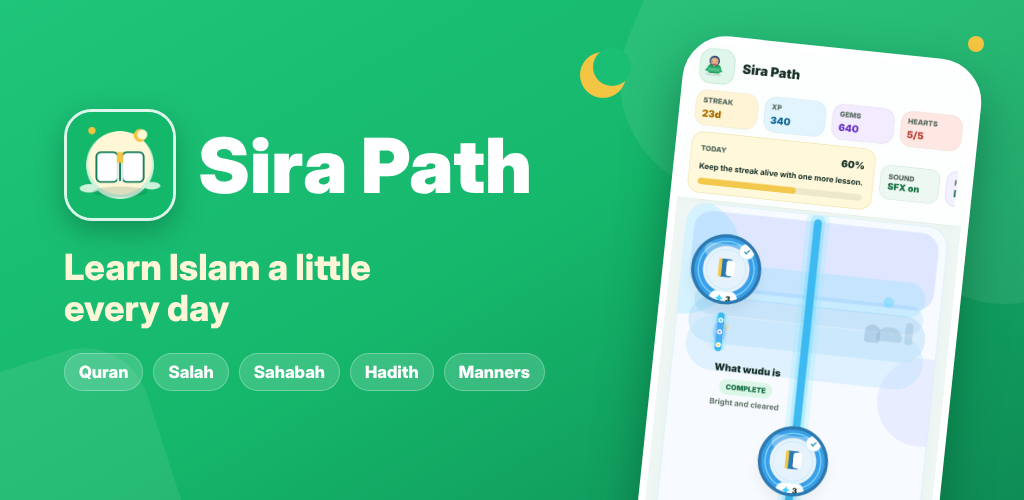
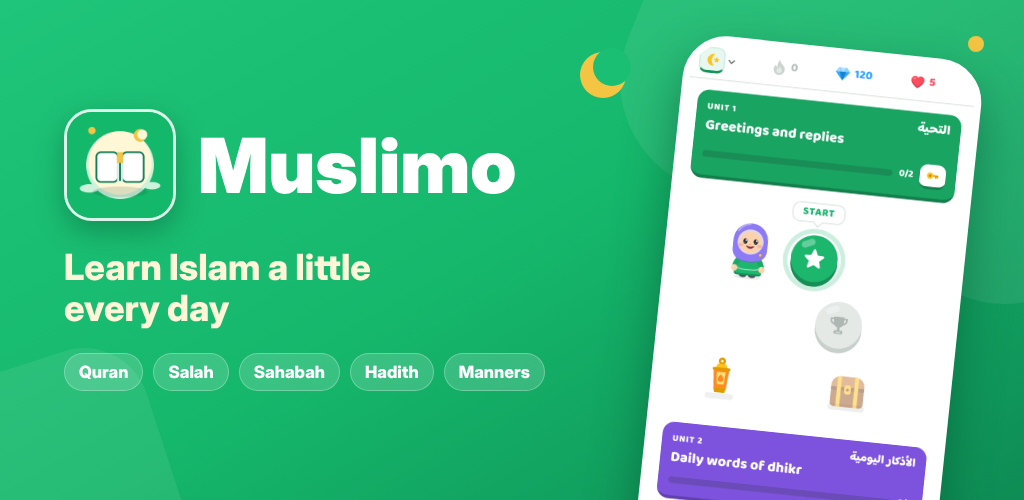
Rename the app from Sira Path to Muslimo
Display name, slug, URL scheme and bundle ids (com.islamiclearning.muslimo),
in-app text, reminders, store listings, public site pages, docs and the
Render service names. The Play feature graphic is redone with the new name
on the redesigned home screen. Storage keys, SIRA_ env vars and the SQLite
file name stay so existing data and deploy settings keep working.

Claude-Session: https://claude.ai/code/session_012MhoryfZ5DE3enWPnHp2ab

diff --git a/site/privacy.html b/site/privacy.html
@@ -3,15 +3,15 @@
 <head>
   <meta charset="utf-8">
   <meta name="viewport" content="width=device-width, initial-scale=1">
-  <title>Sira Path Privacy Policy</title>
-  <meta name="description" content="How the Sira Path app collects, uses and protects your information.">
+  <title>Muslimo Privacy Policy</title>
+  <meta name="description" content="How the Muslimo app collects, uses and protects your information.">
   <link rel="icon" href="favicon.png">
   <link rel="stylesheet" href="styles.css">
 </head>
 <body>
   <header>
     <div class="bar">
-      <a class="brand" href="./"><img src="icon.png" alt="">Sira Path</a>
+      <a class="brand" href="./"><img src="icon.png" alt="">Muslimo</a>
       <nav>
         <a href="./">Support</a>
         <a href="privacy.html" aria-current="page">Privacy</a>
@@ -24,7 +24,7 @@
     <h1>Privacy Policy</h1>
     <p class="updated">Last updated: October 18, 2026</p>
 
-    <p>Sira Path is an Islamic learning app for Android and iOS. It is made by {{DEVELOPER_NAME}} ("we", "us"). This policy explains what information the app collects, why, who it is shared with, and the choices you have. If you have a question, email <a href="mailto:{{SUPPORT_EMAIL}}">{{SUPPORT_EMAIL}}</a>.</p>
+    <p>Muslimo is an Islamic learning app for Android and iOS. It is made by {{DEVELOPER_NAME}} ("we", "us"). This policy explains what information the app collects, why, who it is shared with, and the choices you have. If you have a question, email <a href="mailto:{{SUPPORT_EMAIL}}">{{SUPPORT_EMAIL}}</a>.</p>
 
     <div class="callout">
       <strong>The short version.</strong> You can learn without an account. If you create one, we store your name, email and learning progress so it is saved across devices. Free learners see ads from Google AdMob, which uses your device's advertising identifier. Purchases go through Apple or Google and RevenueCat; we never see your card details. We do not sell your personal information for money, and you can delete your account at any time.
@@ -43,7 +43,7 @@
         <tr><td>Learning progress</td><td>Lessons completed, XP, streaks, gems, hearts, rewards claimed, mastery scores and your daily goal</td><td>To save your progress and keep the game parts of the app working</td></tr>
         <tr><td>Answers and review</td><td>The answers you choose, whether they were right, how long you took, how confident you said you were, placement results and the questions queued for review</td><td>To pick the right difficulty, find weak areas and schedule review</td></tr>
         <tr><td>Settings</td><td>Reminder choices and sound settings</td><td>To remember how you like the app to work</td></tr>
-        <tr><td>People you follow</td><td>Which Sira Path accounts you follow on the Crew screen. You find someone by their account email, which we use for the lookup and do not store again. People who follow you see your display name, XP and streak</td><td>To show the weekly XP race with family and friends</td></tr>
+        <tr><td>People you follow</td><td>Which Muslimo accounts you follow on the Crew screen. You find someone by their account email, which we use for the lookup and do not store again. People who follow you see your display name, XP and streak</td><td>To show the weekly XP race with family and friends</td></tr>
         <tr><td>Subscription status</td><td>Whether you have premium, which plan, and when it started and ends</td><td>To unlock premium features on every device you sign in on</td></tr>
         <tr><td>Sign-in records</td><td>When you last signed in and a sign-in token that expires after 30 days</td><td>To keep you signed in securely</td></tr>
       </table>
@@ -96,7 +96,7 @@
     <p>Depending on where you live, you may also have the right to access, correct, export or delete your information, to object to or restrict how we use it, and to withdraw consent. To use these rights, email <a href="mailto:{{SUPPORT_EMAIL}}">{{SUPPORT_EMAIL}}</a> from the email address on your account. We reply within 30 days and will not treat you differently for using your rights. If you are in the EEA or UK, you can also complain to your local data protection authority.</p>
 
     <h2>7. Children</h2>
-    <p>Sira Path is made for learners aged 13 and older and for families learning together. It is not directed at children under 13, and we do not knowingly collect personal information from children under 13 without verified parental consent. A child under 13 may use the app without an account, or on a parent's device with the parent's supervision. If you believe a child under 13 has given us personal information, email us and we will delete it.</p>
+    <p>Muslimo is made for learners aged 13 and older and for families learning together. It is not directed at children under 13, and we do not knowingly collect personal information from children under 13 without verified parental consent. A child under 13 may use the app without an account, or on a parent's device with the parent's supervision. If you believe a child under 13 has given us personal information, email us and we will delete it.</p>
 
     <h2>8. Security</h2>
     <p>Information is sent over encrypted connections (HTTPS). Passwords are stored as one-way hashes, and sign-in tokens are stored only as hashes. No system is perfectly secure, so please use a password you do not use anywhere else.</p>
@@ -113,6 +113,6 @@
     <h2>12. Contact</h2>
     <p>{{DEVELOPER_NAME}}<br>Email: <a href="mailto:{{SUPPORT_EMAIL}}">{{SUPPORT_EMAIL}}</a></p>
   </main>
-  <footer>Sira Path · <a href="privacy.html">Privacy</a> · <a href="terms.html">Terms</a></footer>
+  <footer>Muslimo · <a href="privacy.html">Privacy</a> · <a href="terms.html">Terms</a></footer>
 </body>
 </html>

diff --git a/site/terms.html b/site/terms.html
@@ -3,15 +3,15 @@
 <head>
   <meta charset="utf-8">
   <meta name="viewport" content="width=device-width, initial-scale=1">
-  <title>Sira Path Terms of Use</title>
-  <meta name="description" content="The terms that apply when you use the Sira Path app.">
+  <title>Muslimo Terms of Use</title>
+  <meta name="description" content="The terms that apply when you use the Muslimo app.">
   <link rel="icon" href="favicon.png">
   <link rel="stylesheet" href="styles.css">
 </head>
 <body>
   <header>
     <div class="bar">
-      <a class="brand" href="./"><img src="icon.png" alt="">Sira Path</a>
+      <a class="brand" href="./"><img src="icon.png" alt="">Muslimo</a>
       <nav>
         <a href="./">Support</a>
         <a href="privacy.html">Privacy</a>
@@ -24,23 +24,23 @@
     <h1>Terms of Use</h1>
     <p class="updated">Last updated: October 18, 2026</p>
 
-    <p>These terms are an agreement between you and {{DEVELOPER_NAME}} ("we", "us") for your use of the Sira Path app and website (the "app"). By using the app you agree to these terms and to our <a href="privacy.html">Privacy Policy</a>. If you do not agree, please do not use the app.</p>
+    <p>These terms are an agreement between you and {{DEVELOPER_NAME}} ("we", "us") for your use of the Muslimo app and website (the "app"). By using the app you agree to these terms and to our <a href="privacy.html">Privacy Policy</a>. If you do not agree, please do not use the app.</p>
 
-    <h2>1. Who can use Sira Path</h2>
+    <h2>1. Who can use Muslimo</h2>
     <p>You must be at least 13 years old to create an account. If you are under the age of adulthood where you live, a parent or guardian must agree to these terms for you. Children under 13 may use the app only with a parent or guardian's supervision.</p>
 
     <h2>2. About the lessons</h2>
-    <p>Sira Path is an educational tool that teaches Islamic knowledge in short lessons and quizzes, drawing on the Quran, hadith, seerah and the works of scholars. We work to keep lessons accurate and to cite sources, but lessons are simplified for learning and may contain mistakes. The app is not a fatwa service and does not replace a qualified scholar. For religious rulings that affect you, please ask a trusted, qualified scholar. If you find a mistake, email us and we will review it.</p>
+    <p>Muslimo is an educational tool that teaches Islamic knowledge in short lessons and quizzes, drawing on the Quran, hadith, seerah and the works of scholars. We work to keep lessons accurate and to cite sources, but lessons are simplified for learning and may contain mistakes. The app is not a fatwa service and does not replace a qualified scholar. For religious rulings that affect you, please ask a trusted, qualified scholar. If you find a mistake, email us and we will review it.</p>
 
     <h2>3. Your account</h2>
     <p>You can use most lessons without an account. If you create one, give accurate information, keep your password private, and tell us if you think someone else has used your account. You are responsible for activity on your account. You can delete your account at any time, as explained on our <a href="delete-account.html">account deletion page</a>.</p>
 
     <h2>4. Premium subscriptions</h2>
     <ul>
-      <li>Sira Path Premium is an optional auto-renewing subscription, billed monthly or yearly, that removes ads and unlocks premium features such as unlimited hearts, premium lesson branches and mastery tests.</li>
+      <li>Muslimo Premium is an optional auto-renewing subscription, billed monthly or yearly, that removes ads and unlocks premium features such as unlimited hearts, premium lesson branches and mastery tests.</li>
       <li>Payment is charged to your Apple ID or Google Play account when you confirm the purchase.</li>
       <li>Your subscription renews automatically at the same price and length unless you turn off auto-renew at least 24 hours before the end of the current period. Your account is charged for renewal within 24 hours before the end of the current period.</li>
-      <li>You can manage or cancel your subscription in your App Store account settings or in Google Play under Payments and subscriptions. Deleting the app or your Sira Path account does not cancel a subscription.</li>
+      <li>You can manage or cancel your subscription in your App Store account settings or in Google Play under Payments and subscriptions. Deleting the app or your Muslimo account does not cancel a subscription.</li>
       <li>If a free trial is offered, any unused part of the trial ends when you buy a subscription. If you do not cancel before a trial ends, the subscription starts and you are charged.</li>
       <li>Refunds are handled by Apple or Google under their policies. We cannot issue refunds for store purchases ourselves.</li>
       <li>We may change prices for future periods. Apple or Google will tell you before a price change takes effect, as their rules require.</li>
@@ -91,6 +91,6 @@
     <h2>16. Contact</h2>
     <p>{{DEVELOPER_NAME}}<br>Email: <a href="mailto:{{SUPPORT_EMAIL}}">{{SUPPORT_EMAIL}}</a></p>
   </main>
-  <footer>Sira Path · <a href="privacy.html">Privacy</a> · <a href="terms.html">Terms</a></footer>
+  <footer>Muslimo · <a href="privacy.html">Privacy</a> · <a href="terms.html">Terms</a></footer>
 </body>
 </html>

diff --git a/site/index.html b/site/index.html
@@ -3,15 +3,15 @@
 <head>
   <meta charset="utf-8">
   <meta name="viewport" content="width=device-width, initial-scale=1">
-  <title>Sira Path Support</title>
-  <meta name="description" content="Sira Path helps you learn Islam step by step with short lessons on the Quran, seerah, the Sahabah, hadith and manners.">
+  <title>Muslimo Support</title>
+  <meta name="description" content="Muslimo helps you learn Islam step by step with short lessons on the Quran, seerah, the Sahabah, hadith and manners.">
   <link rel="icon" href="favicon.png">
   <link rel="stylesheet" href="styles.css">
 </head>
 <body>
   <header>
     <div class="bar">
-      <a class="brand" href="./"><img src="icon.png" alt="">Sira Path</a>
+      <a class="brand" href="./"><img src="icon.png" alt="">Muslimo</a>
       <nav>
         <a href="./" aria-current="page">Support</a>
         <a href="privacy.html">Privacy</a>
@@ -22,7 +22,7 @@
   </header>
   <main>
     <h1>Learn Islam a little every day</h1>
-    <p>Sira Path is a free-to-download app for Android and iPhone that teaches Islamic knowledge through short, game-like lessons: the basics of iman, wudu and salah, the Quran and tafsir by surah, the lives of the Prophets, the Sahabah, hadith and good manners. Keep a streak, earn XP and review what you missed.</p>
+    <p>Muslimo is a free-to-download app for Android and iPhone that teaches Islamic knowledge through short, game-like lessons: the basics of iman, wudu and salah, the Quran and tafsir by surah, the lives of the Prophets, the Sahabah, hadith and good manners. Keep a streak, earn XP and review what you missed.</p>
 
     <div class="card">
       <h2 style="margin-top:0">Contact us</h2>
@@ -35,7 +35,7 @@
     <p>No. You can start learning straight away. An account saves your progress so you can keep it on a new phone.</p>
 
     <h3>How do I restore premium on a new phone?</h3>
-    <p>Sign in with the same Apple ID or Google account you bought it with, open the shop in Sira Path and tap <strong>Restore purchases</strong>.</p>
+    <p>Sign in with the same Apple ID or Google account you bought it with, open the shop in Muslimo and tap <strong>Restore purchases</strong>.</p>
 
     <h3>How do I cancel premium?</h3>
     <p>On iPhone, open Settings, tap your name, then Subscriptions. On Android, open Google Play, tap your profile, then Payments and subscriptions, then Subscriptions. Premium stays active until the end of the period you paid for.</p>
@@ -47,11 +47,11 @@
     <p>JazakAllahu khayran for telling us. Email the lesson name and what looks wrong, with a source if you have one, and we will review it.</p>
 
     <h3>How do I turn off reminders?</h3>
-    <p>Change reminder settings in the app, or turn off notifications for Sira Path in your phone's settings.</p>
+    <p>Change reminder settings in the app, or turn off notifications for Muslimo in your phone's settings.</p>
 
     <h3>How do I delete my account?</h3>
     <p>Follow the steps on the <a href="delete-account.html">account deletion page</a>.</p>
   </main>
-  <footer>Sira Path · <a href="privacy.html">Privacy</a> · <a href="terms.html">Terms</a></footer>
+  <footer>Muslimo · <a href="privacy.html">Privacy</a> · <a href="terms.html">Terms</a></footer>
 </body>
 </html>

diff --git a/src/services/reminderContent.ts b/src/services/reminderContent.ts
@@ -19,7 +19,7 @@ const REMINDER_COPY: Record<SupportedLanguage, Record<ReminderKind, Array<{ titl
     streak: [
       {
         title: "As-salamu alaykum - keep your streak alive",
-        body: "A small lesson today can bring barakah. Open Sira Path and keep your streak moving."
+        body: "A small lesson today can bring barakah. Open Muslimo and keep your streak moving."
       },
       {
         title: "Your streak is waiting",
@@ -41,7 +41,7 @@ const REMINDER_COPY: Record<SupportedLanguage, Record<ReminderKind, Array<{ titl
     streak: [
       {
         title: "As-salamu alaykum - gardez votre serie",
-        body: "Une petite lecon aujourd'hui peut apporter de la baraka. Ouvrez Sira Path et continuez votre serie."
+        body: "Une petite lecon aujourd'hui peut apporter de la baraka. Ouvrez Muslimo et continuez votre serie."
       },
       {
         title: "Votre serie vous attend",
@@ -85,7 +85,7 @@ const REMINDER_COPY: Record<SupportedLanguage, Record<ReminderKind, Array<{ titl
     streak: [
       {
         title: "আসসালামু আলাইকুম - স্ট্রিক ধরে রাখুন",
-        body: "আজ একটি ছোট পাঠেও বরকত থাকতে পারে। Sira Path খুলে স্ট্রিক চালিয়ে যান।"
+        body: "আজ একটি ছোট পাঠেও বরকত থাকতে পারে। Muslimo খুলে স্ট্রিক চালিয়ে যান।"
       },
       {
         title: "আপনার স্ট্রিক অপেক্ষা করছে",
@@ -107,7 +107,7 @@ const REMINDER_COPY: Record<SupportedLanguage, Record<ReminderKind, Array<{ titl
     streak: [
       {
         title: "السلام علیکم - اپنی اسٹریک قائم رکھیں",
-        body: "آج کا ایک چھوٹا سبق بھی برکت لا سکتا ہے۔ Sira Path کھولیں اور اپنی اسٹریک جاری رکھیں۔"
+        body: "آج کا ایک چھوٹا سبق بھی برکت لا سکتا ہے۔ Muslimo کھولیں اور اپنی اسٹریک جاری رکھیں۔"
       },
       {
         title: "آپ کی اسٹریک آپ کا انتظار کر رہی ہے",
@@ -129,7 +129,7 @@ const REMINDER_COPY: Record<SupportedLanguage, Record<ReminderKind, Array<{ titl
     streak: [
       {
         title: "अस्सलामु अलैकुम - अपनी स्ट्रीक बनाए रखें",
-        body: "आज का एक छोटा पाठ भी बरकत ला सकता है। Sira Path खोलिए और अपनी स्ट्रीक जारी रखिए।"
+        body: "आज का एक छोटा पाठ भी बरकत ला सकता है। Muslimo खोलिए और अपनी स्ट्रीक जारी रखिए।"
       },
       {
         title: "आपकी स्ट्रीक आपका इंतजार कर रही है",

diff --git a/site/delete-account.html b/site/delete-account.html
@@ -3,15 +3,15 @@
 <head>
   <meta charset="utf-8">
   <meta name="viewport" content="width=device-width, initial-scale=1">
-  <title>Delete Your Sira Path Account</title>
-  <meta name="description" content="How to delete your Sira Path account and the data linked to it.">
+  <title>Delete Your Muslimo Account</title>
+  <meta name="description" content="How to delete your Muslimo account and the data linked to it.">
   <link rel="icon" href="favicon.png">
   <link rel="stylesheet" href="styles.css">
 </head>
 <body>
   <header>
     <div class="bar">
-      <a class="brand" href="./"><img src="icon.png" alt="">Sira Path</a>
+      <a class="brand" href="./"><img src="icon.png" alt="">Muslimo</a>
       <nav>
         <a href="./">Support</a>
         <a href="privacy.html">Privacy</a>
@@ -21,18 +21,18 @@
     </div>
   </header>
   <main>
-    <h1>Delete your Sira Path account</h1>
-    <p class="updated">Sira Path is made by {{DEVELOPER_NAME}}.</p>
+    <h1>Delete your Muslimo account</h1>
+    <p class="updated">Muslimo is made by {{DEVELOPER_NAME}}.</p>
 
     <h2>Delete in the app</h2>
     <ol>
-      <li>Open Sira Path and sign in.</li>
+      <li>Open Muslimo and sign in.</li>
       <li>Open your profile and tap <strong>Settings</strong>.</li>
       <li>Scroll down, tap <strong>Delete account</strong> and confirm.</li>
     </ol>
 
     <h2>Delete without the app</h2>
-    <p>Email <a href="mailto:{{SUPPORT_EMAIL}}?subject=Delete%20my%20Sira%20Path%20account">{{SUPPORT_EMAIL}}</a> from the email address on your account with the subject "Delete my Sira Path account". We confirm by email and delete the account within 30 days. If you write from a different address, we will ask you to confirm that the account is yours.</p>
+    <p>Email <a href="mailto:{{SUPPORT_EMAIL}}?subject=Delete%20my%20Muslimo%20account">{{SUPPORT_EMAIL}}</a> from the email address on your account with the subject "Delete my Muslimo account". We confirm by email and delete the account within 30 days. If you write from a different address, we will ask you to confirm that the account is yours.</p>
 
     <div class="callout">
       <strong>Subscriptions are separate.</strong> Deleting your account does not cancel a premium subscription. Cancel it first in your App Store account settings or in Google Play under Payments and subscriptions.
@@ -55,6 +55,6 @@
     </ul>
     <p>Progress saved on your device without an account is removed when you uninstall the app.</p>
   </main>
-  <footer>Sira Path · <a href="privacy.html">Privacy</a> · <a href="terms.html">Terms</a></footer>
+  <footer>Muslimo · <a href="privacy.html">Privacy</a> · <a href="terms.html">Terms</a></footer>
 </body>
 </html>

diff --git a/store/graphics/source/feature.html b/store/graphics/source/feature.html
@@ -21,7 +21,7 @@ p{color:#FFF6D8;font-size:36px;font-weight:800;line-height:1.15;margin-top:26px}
 <div class="blob" style="width:300px;height:300px;left:-120px;bottom:-170px;transform:rotate(-18deg)"></div>
 <div class="moon"></div><div class="star"></div>
 <div class="left">
- <div class="brand"><img class="icon" src="../../../assets/icon.png"><h1>Sira Path</h1></div>
+ <div class="brand"><img class="icon" src="../../../assets/icon.png"><h1>Muslimo</h1></div>
  <p>Learn Islam a little<br>every day</p>
  <div class="chips"><span class="chip">Quran</span><span class="chip">Salah</span><span class="chip">Sahabah</span><span class="chip">Hadith</span><span class="chip">Manners</span></div>
 </div>

diff --git a/src/data/course.ts b/src/data/course.ts
@@ -167,7 +167,7 @@ export const STARTER_USER: UserProfile = {
 
 const BASE_COURSE: LearningCourse = {
   id: "islam-foundations",
-  title: "Sira Path",
+  title: "Muslimo",
   subtitle: "Start with foundations, get ready for prayer, build manners and marriage wisdom, meet the Sahabah, reflect on Quran and tafsir, travel from Adam to Muhammad ﷺ, and learn from the women honored in revelation.",
   sections: [
     {

diff --git a/src/ui/gallery/Gallery.tsx b/src/ui/gallery/Gallery.tsx
@@ -44,7 +44,7 @@ export function KitGallery() {
   return (
     <View style={styles.root}>
       <ScrollView contentContainerStyle={styles.scroll} testID="kit-gallery">
-        <Text style={styles.title}>Sira Path kit</Text>
+        <Text style={styles.title}>Muslimo kit</Text>
 
         <Section title="Stat chips">
           <View style={styles.statRow}>

diff --git a/backend/server.js b/backend/server.js
@@ -95,7 +95,7 @@ const server = http.createServer(async (req, res) => {
 });
 
 server.listen(PORT, () => {
-  console.log(`Sira Path API running on http://localhost:${PORT}`);
+  console.log(`Muslimo API running on http://localhost:${PORT}`);
 });
 
 function handleRegister(body, res) {

diff --git a/backend/app/api/routes/friends.py b/backend/app/api/routes/friends.py
@@ -71,7 +71,7 @@ def add_friend(payload: AddFriendInput, db: DbSession, today: Optional[str] = Qu
     friend = db.scalar(select(User).where(User.email == email))
 
     if not friend:
-        raise HTTPException(status_code=status.HTTP_404_NOT_FOUND, detail="No Sira Path account uses that email yet. Ask them to sign up first.")
+        raise HTTPException(status_code=status.HTTP_404_NOT_FOUND, detail="No Muslimo account uses that email yet. Ask them to sign up first.")
     if friend.id == user.id:
         raise HTTPException(status_code=status.HTTP_400_BAD_REQUEST, detail="That's your own account.")
     if db.scalar(select(Friendship).where(Friendship.user_id == user.id, Friendship.friend_id == friend.id)):

diff --git a/backend/app/core/config.py b/backend/app/core/config.py
@@ -12,7 +12,7 @@ DEFAULT_SQLITE_PATH = ROOT_DIR / "backend" / "data" / "sira_path.db"
 
 
 class Settings(BaseSettings):
-    app_name: str = "Sira Path API"
+    app_name: str = "Muslimo API"
     api_prefix: str = "/api"
     environment: str = "development"
     database_url: str = Field(default=f"sqlite:///{DEFAULT_SQLITE_PATH.as_posix()}")

diff --git a/backend/app/__init__.py b/backend/app/__init__.py
@@ -1,2 +1,2 @@
-"""FastAPI application package for Sira Path."""
+"""FastAPI application package for Muslimo."""
 
